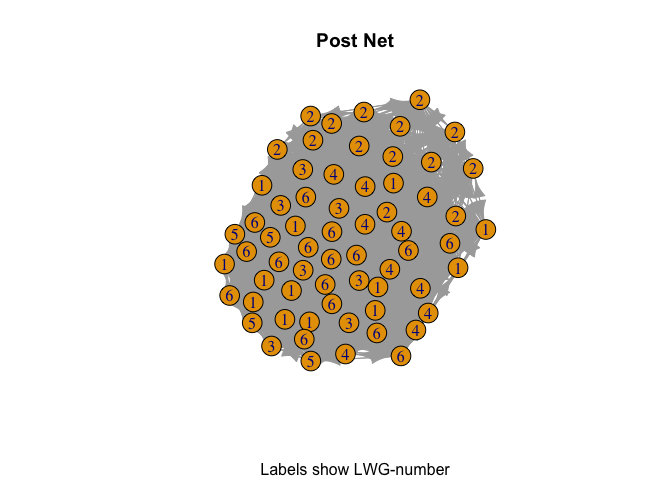
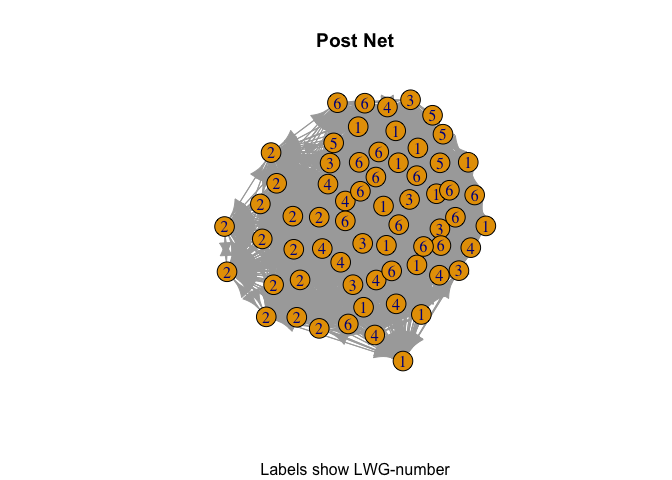
Here are the latest changes with infomap

Changed region(s): [[0.3125, 0.1875, 0.75, 0.7812]]

diff --git a/SE_similarityAnalysis.md b/SE_similarityAnalysis.md
@@ -586,16 +586,24 @@ write.graph(postNetBBT,"postNetBBT.net",format=c("pajek"))
 write.graph(preNetBBT,"preNetBBT.net",format=c("pajek"))
 ```
 
-Plot of post networks to show differences. The first plot contains all
-links, the second the backbone networks
+For a simple comparison of raw and backbone post networks, the following
+code shows different representations of them
+
+  - The stored igraph objects with information about type, number of
+    links and nodes.
+  - The cumulative degree distributions; the frequency of nodes with k
+    connections or below.
+  - A force-based plot with LWG-labels.
+
+<!-- end list -->
 
 ``` r
 postNetT
 ```
 
-    ## IGRAPH a28676d D-W- 64 3672 -- 
+    ## IGRAPH 5ea07e8 D-W- 64 3672 -- 
     ## + attr: id (v/c), weight (e/n)
-    ## + edges from a28676d:
+    ## + edges from 5ea07e8:
     ##   [1] 1-> 2 1-> 3 1-> 4 1-> 5 1-> 6 1-> 8 1-> 9 1->10 1->11 1->12 1->13 1->14
     ##  [13] 1->15 1->16 1->17 1->18 1->19 1->20 1->21 1->22 1->23 1->24 1->25 1->26
     ##  [25] 1->27 1->28 1->29 1->30 1->31 1->32 1->33 1->34 1->35 1->36 1->37 1->38
@@ -622,9 +630,9 @@ plot(degree.distribution(postNetT,cumulative = T),log="xy", xlab="Degree, k",yla
 postNetBBT
 ```
 
-    ## IGRAPH c6efee9 U-W- 64 106 -- 
+    ## IGRAPH bb42f18 U-W- 64 106 -- 
     ## + attr: id (v/c), weight (e/n)
-    ## + edges from c6efee9:
+    ## + edges from bb42f18:
     ##  [1]  1--20  1--26  1--30  1--35  1--36  2-- 5  2--13  2--56  2--61  3-- 6
     ## [11]  3--33  3--55  4--36  4--51  5--18  5--33  5--46  6--31  6--45  6--51
     ## [21]  6--57  7--12  7--50  7--53  8--45  8--55  9--10  9--13  9--46  9--59
@@ -647,17 +655,124 @@ plot(degree.distribution(postNetBBT,cumulative = T),log="xy", xlab="Degree, k",y
 
 ![](SE_similarityAnalysis_files/figure-gfm/plot-networks-4.png)<!-- -->
 
-\#\#Infomap clustering
+## Infomap clustering
+
+We used the version of infomap that can be downloaded from
+<https://www.mapequation.org>. Igraph also has a version of infomap
+installed, but we found that it was not as stable as the ones found on
+mapequation. Below we include the code we used to generate 1000 cluster
+solutions using a standard Mac terminal.
+
+    Code for running infomap 100 times and placing the results in a specific folder:
+    for i in {1..1000}; do ./pathToNetwork/[name].net /pathtoFolder/1000Infomaps[name]/
+    --out-name $i -2 --clu --map -s$i; done
+
+The Data-folder contains the results of this code and we use those
+results for the further analysis. Below we evaluate the internal
+consistency of cluster solutions for the pre intervention and post
+intervention networks. Also, we compare the most frequent pre solution
+to the most frequent post solution.
+
+``` r
+files<-vector()
+for (i in 1:1000){
+  files[i]<-paste("Data/1000InfomapsPreBBT/",i,".clu",sep = "")
+  
+}
+#Read in cluster solutions
+csvs<-lapply(files,read.csv,skip=2,header=F,sep="")
+
+a<-matrix(data=0,nrow=1000,ncol=64)
+for (i in 1:1000){
+  a[i,]<-csvs[[i]][ order(csvs[[i]][,1]),2 ]
+  
+}
+
+comp<-function(j){
+  nmi<-vector()
+  for(i in 1:1000){
+    nmi[i]<-compare(a[i,],a[j,],method="nmi")  
+    
+  }
+  return(nmi)  
+} 
+
+nmiM<-matrix(data=0,nrow=1000,ncol=1000)
+for(i in 1:1000){
+  nmiM[i,]<-comp(i)
+  
+}
+
+mean(nmiM) #Normalized mutual information of pre-cluster solutions
+```
 
     ## [1] 0.9723268
 
+``` r
+sd(nmiM) #Standard deviation of NMI
+```
+
     ## [1] 0.02760185
+
+``` r
+files<-vector()
+for (i in 1:1000){
+  files[i]<-paste("Data/1000InfomapsPostBBT/",i,".clu",sep = "")
+  
+}
+#setwd("..") #go to where the files are
+csvs<-lapply(files,read.csv,skip=2,header=F,sep="")
+
+a<-matrix(data=0,nrow=1000,ncol=64)
+for (i in 1:1000){
+  a[i,]<-csvs[[i]][ order(csvs[[i]][,1]),2 ]
+  
+}
+
+comp<-function(j){
+  nmi<-vector()
+  for(i in 1:1000){
+    nmi[i]<-compare(a[i,],a[j,],method="nmi")  
+    
+  }
+  return(nmi)  
+} 
+
+nmiM<-matrix(data=0,nrow=1000,ncol=1000)
+for(i in 1:1000){
+  nmiM[i,]<-comp(i)
+  
+}
+
+mean(nmiM)#Normalized mutual information of post-cluster solutions
+```
 
     ## [1] 0.9455897
 
+``` r
+sd(nmiM)#Standard deviation of NMI
+```
+
     ## [1] 0.03625122
 
+``` r
+#Compare pre to post groupings
+#Get most frequent groupings
+postBBTgroup<-read.csv("Data/1000InfomapsPostBBT/1.clu",skip=2,header=F,sep="") #for us it was the first grouping.
+postBBTgroup<-postBBTgroup[order(postBBTgroup$V1),]
+preBBTgroup<-read.csv("Data/1000InfomapsPreBBT/2.clu",skip=2,header=F,sep="") #for us it was the first grouping.
+preBBTgroup<-preBBTgroup[order(preBBTgroup$V1),]
+compare(preBBTgroup$V2,postBBTgroup$V2,method="nmi") 
+```
+
     ## [1] 0.4346165
+
+``` r
+#Attach groupings to attributes data frame
+attributesT<-read.csv("Data/attributesT.csv")
+attributesT$preGroup<-preBBTgroup$V2
+attributesT$postGroup<-postBBTgroup$V2
+```
 
 ## Find Optimal Super Group Solution
 
@@ -983,27 +1098,27 @@ plot(degree.distribution(postNetBBT,cumulative = T),log="xy", xlab="Degree, k",y
 
 ## Segregation analysis
 
-    ## [1] 10.32658
+    ## [1] 9.609773
 
-    ## [1] 0.2685563
+    ## [1] 0.2486196
 
-    ## [1] -0.02980526
+    ## [1] -0.04889402
 
-    ## [1] -0.5970898
+    ## [1] -0.5642743
 
-    ## [1] -0.4920884
+    ## [1] -0.51623
 
-    ## [1] 1.142066
+    ## [1] 1.35792
 
-    ## [1] 2.836271
+    ## [1] 2.985931
 
-    ## [1] 0.04523868
+    ## [1] 0.05745959
 
-    ## [1] 1.159058
+    ## [1] 1.086237
 
-    ## [1] 3.034806
+    ## [1] 2.901326
 
-    ## [1] 16.49407
+    ## [1] 15.67396
 
 ## Entropy analysis
 
